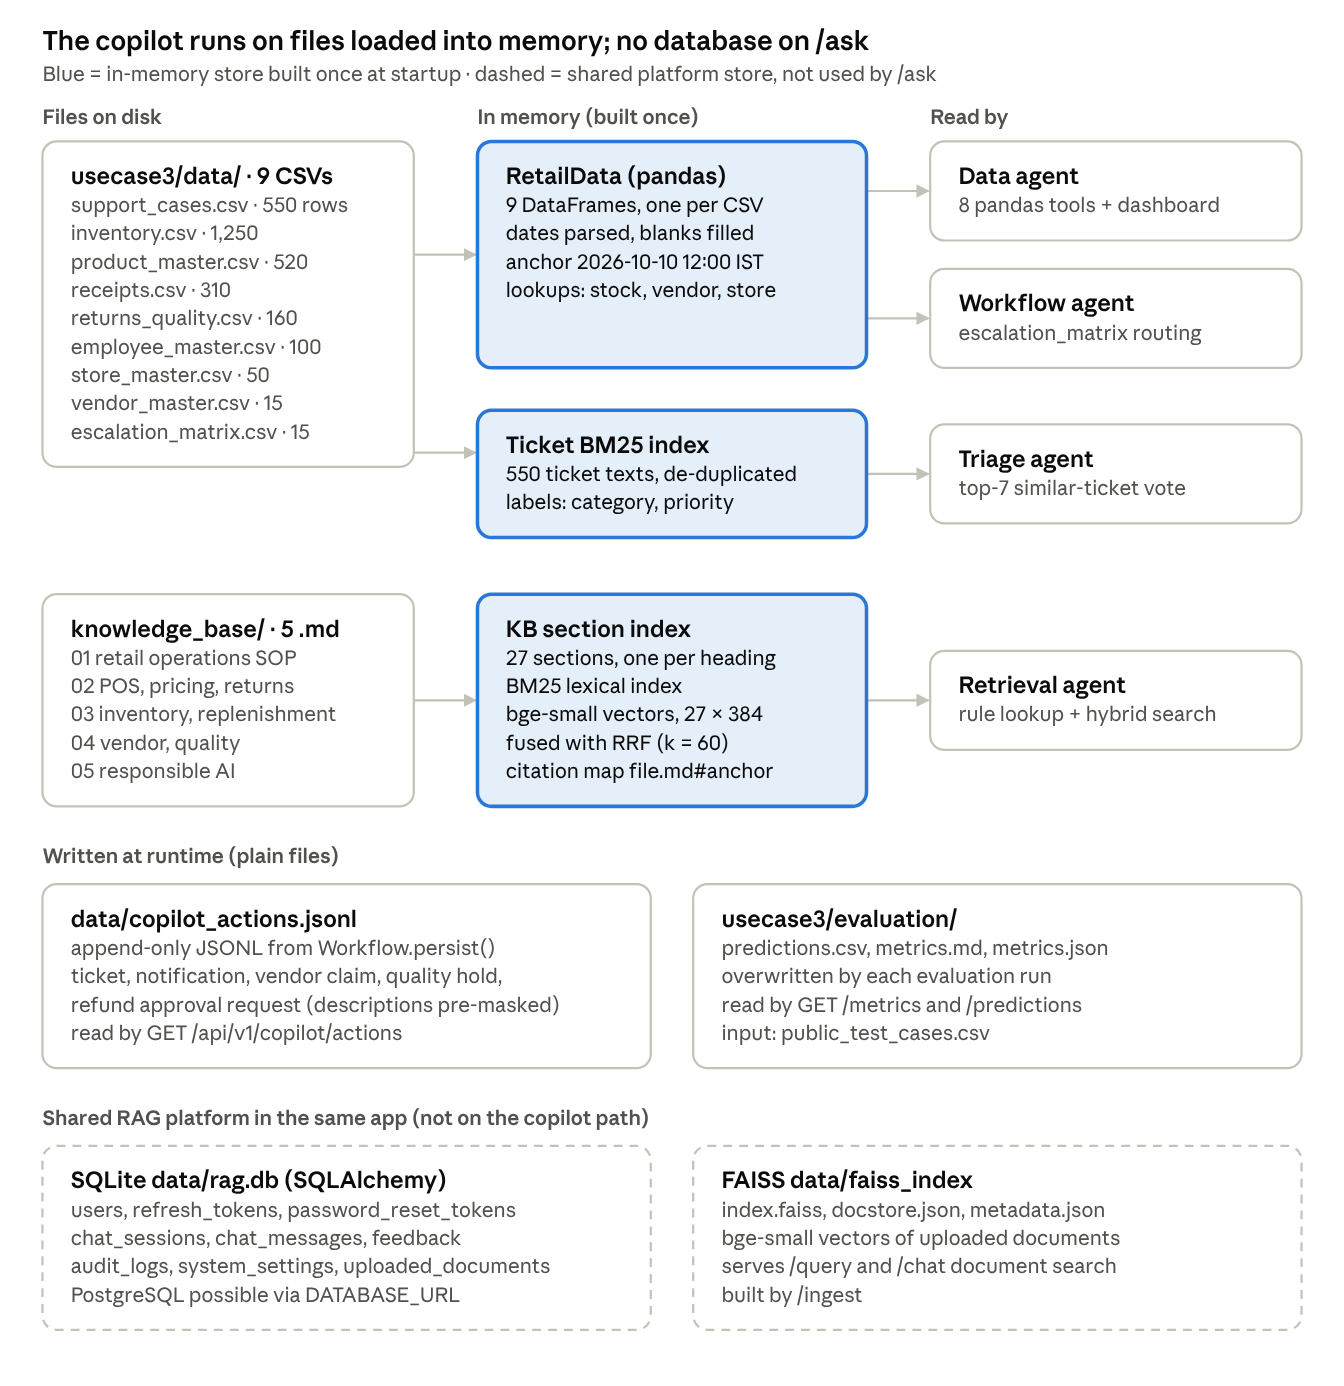
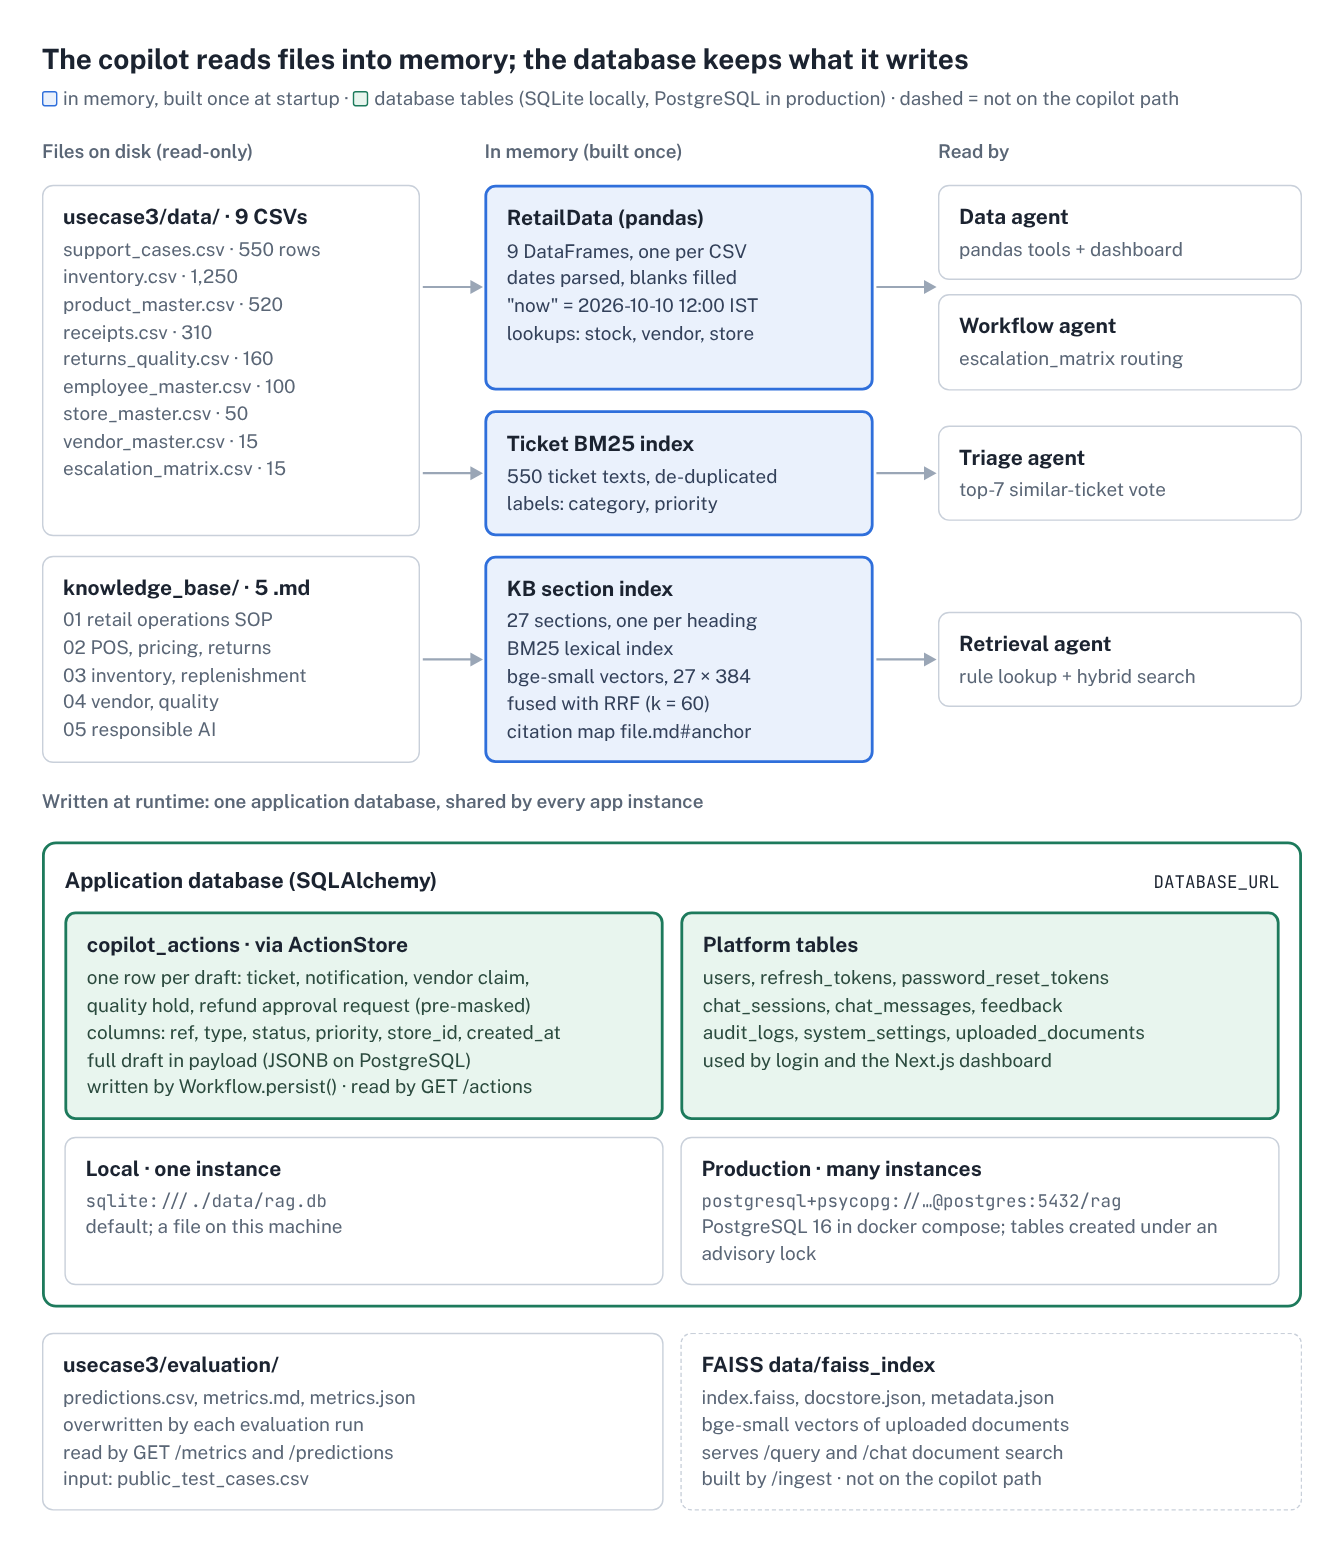
Update architecture docs and data-store diagram for PostgreSQL
ARCHITECTURE.md gains a 'Where data lives' section (files in memory vs the
application database), a PostgreSQL row in the technology table, current test
counts, and two judge questions. LLD_data_stores.png now shows the
copilot_actions table and the shared SQLite/PostgreSQL database instead of the
JSONL file.

diff --git a/rag/rag/docs/ARCHITECTURE.md b/rag/rag/docs/ARCHITECTURE.md
@@ -84,8 +84,9 @@ Input: *"English Willow Cricket Bat is out of stock again at Store ST002. Why is
 | **Regex** | Safety agent, priority rules | Deterministic and testable; this is where errors are most expensive. |
 | **LangChain** (chat-model wrapper only) | the LLM that writes answers | One interface for OpenRouter, OpenAI, Anthropic or local Ollama: switch with `LLM_PROVIDER` in `.env`. |
 | **HTML + CSS + vanilla JS** | the web console, served by FastAPI | No build step and no dependencies; one origin, so the strict CSP stays on; light and dark themes. |
-| **pytest** | 38 copilot tests (187 in total) | Locks the safety rules and the public cases so later changes can't break them. |
-| **Docker** | packaging | `docker compose up` runs the API with the KB and CSVs inside the image. |
+| **PostgreSQL 16** (SQLAlchemy + psycopg 3) | users, chat history, audit log, drafted actions | One database every app instance shares. SQLite is a file on one machine, so with two workers or containers each would keep its own users and drafts. SQLite stays the default for a single local instance; `DATABASE_URL` picks the engine. |
+| **pytest** | 52 copilot tests (204 in total, 3 of them against a real PostgreSQL) | Locks the safety rules and the public cases so later changes can't break them. |
+| **Docker** | packaging | `docker compose up` runs PostgreSQL and the API, with the KB and CSVs inside the image. |
 
 ## 5. Guardrails (Responsible AI, M8)
 
@@ -105,7 +106,29 @@ Input: *"English Willow Cricket Bat is out of stock again at Store ST002. Why is
 85 / 100 / 75). Eleven cases is a small sample, so we also tested 30 prompts we wrote
 (typos, paraphrases, other stores); hidden prompts can still find gaps.
 
-## 7. What we reused vs. built
+## 7. Where data lives
+
+Two kinds of data, kept apart on purpose:
+
+| Data | Where | Written by | Why there |
+|---|---|---|---|
+| 9 retail CSVs, 5 policy `.md` files | files in `usecase3/`, loaded into memory at startup | nobody (read-only snapshot) | A frozen snapshot of ~3,000 rows; pandas in memory is exact and needs no schema. In production this data belongs to the POS, inventory and ticketing systems, so the copilot should read it from them, not keep its own copy. |
+| Drafted actions | `copilot_actions` table (payload as JSONB on PostgreSQL) | Workflow agent, through `ActionStore` | Drafts are what the copilot owns. A table is shared by every instance and can be queried by store, type or priority. |
+| Users, sessions, chat history, feedback, audit log, settings | the same database | API | Shared state for the dashboard and login. |
+| Evaluation results | `usecase3/evaluation/` files | evaluation run | Overwritten per run; read by `/metrics` and `/predictions`. |
+
+The database is SQLite by default (`sqlite:///./data/rag.db`) and PostgreSQL in production
+(`DATABASE_URL=postgresql+psycopg://…`; `docker compose` sets it). Three details matter on
+PostgreSQL that SQLite hides:
+
+- **Workers starting together.** Tables are created at startup inside a PostgreSQL advisory
+  lock; without it, six simultaneous startups failed with `IntegrityError` every time.
+- **String lengths are enforced.** Client-supplied values are clipped (audit-log headers) or
+  rejected with 422 (`session_id`, `query_id` longer than 36) instead of failing with a 500.
+- **The database can be down.** Saving drafts is logged on failure, not raised: the answer
+  and its drafts still reach the user, as with an LLM failure.
+
+## 8. What we reused vs. built
 
 **Reused from our RAG engine:** `BM25Search`, `reciprocal_rank_fusion`, the bge-small
 embedding factory, the LLM provider factory, settings, logging, the FastAPI app.
@@ -113,7 +136,7 @@ embedding factory, the LLM provider factory, settings, logging, the FastAPI app.
 with `file.md#slug` citations, the API router, the web console, the evaluation module and
 the tests.
 
-## 8. Questions judges may ask
+## 9. Questions judges may ask
 
 | Question | Short answer |
 |---|---|
@@ -126,3 +149,5 @@ the tests.
 | Why not just one LLM prompt? | Exactness: masking, counting and routing must not depend on a model. And it's explainable. |
 | What if the LLM fails or invents something? | Its citations are checked against the retrieved list, a cut-off answer is replaced by the template answer, and output is re-masked. No key or no network: template answers. |
 | Why no vector database? | 27 sections fit in memory; FAISS or Chroma would only add moving parts. |
+| Why PostgreSQL and not SQLite? | SQLite is a file on one machine: with two instances each keeps its own users and drafts. PostgreSQL is one shared server; SQLite stays for local single-instance runs. |
+| Why aren't the CSVs in the database? | They are a read-only snapshot owned by other systems; copying them would create a second, stale copy. The database holds only what the copilot owns. |
